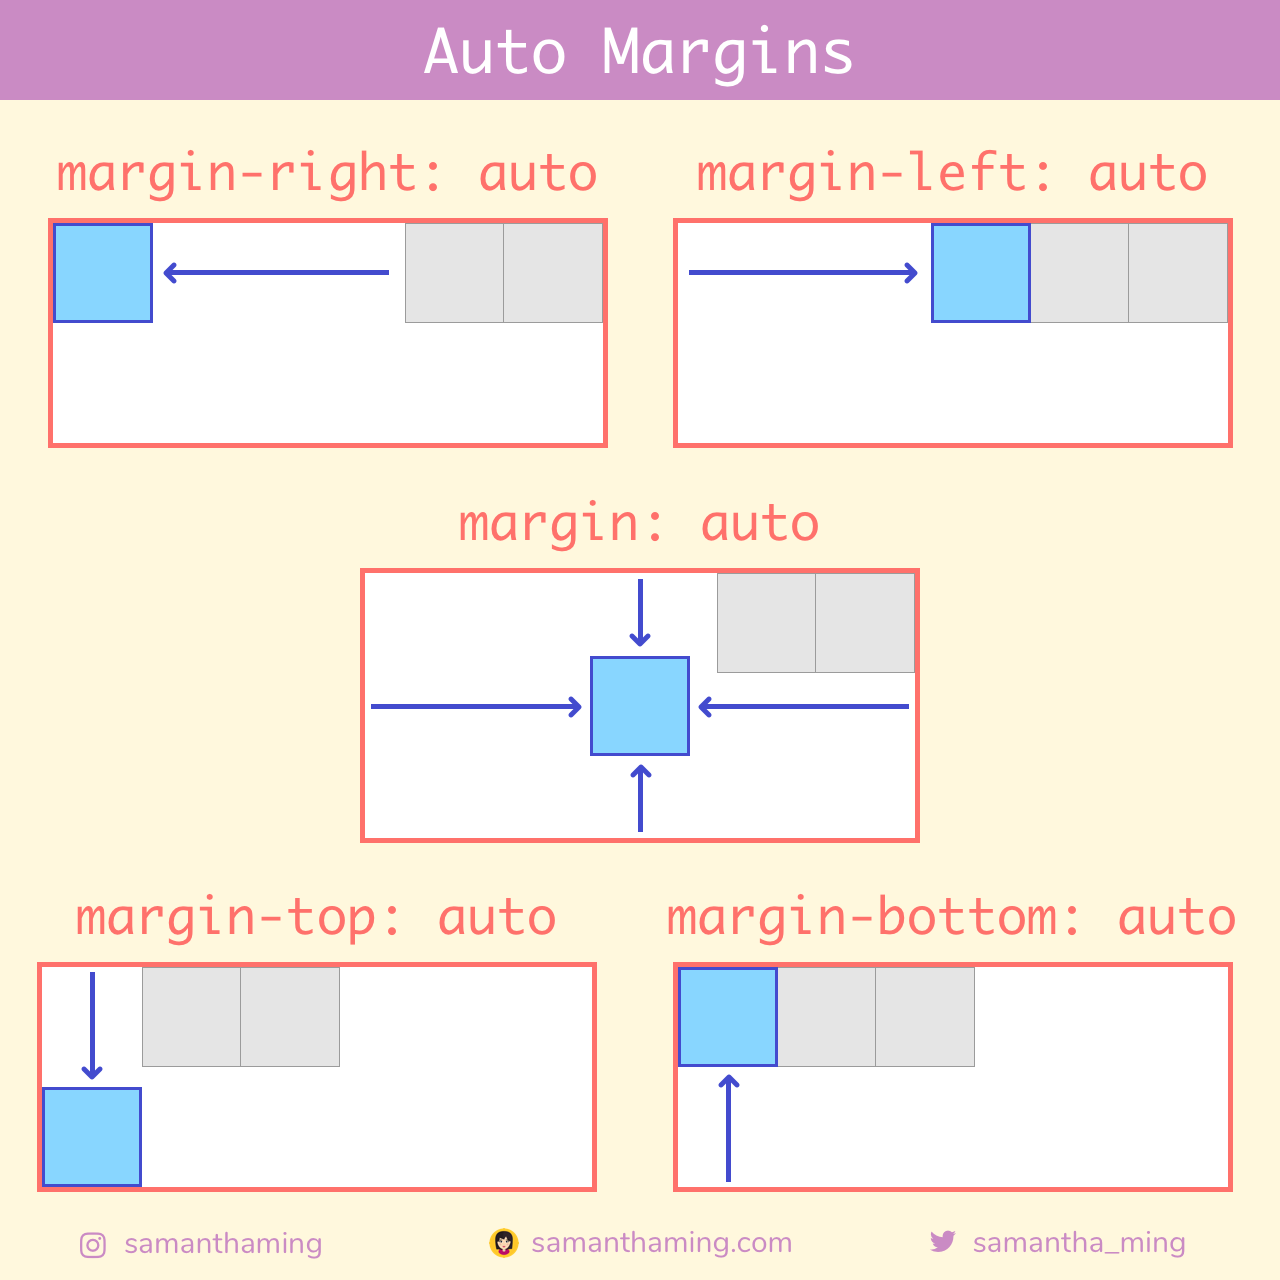
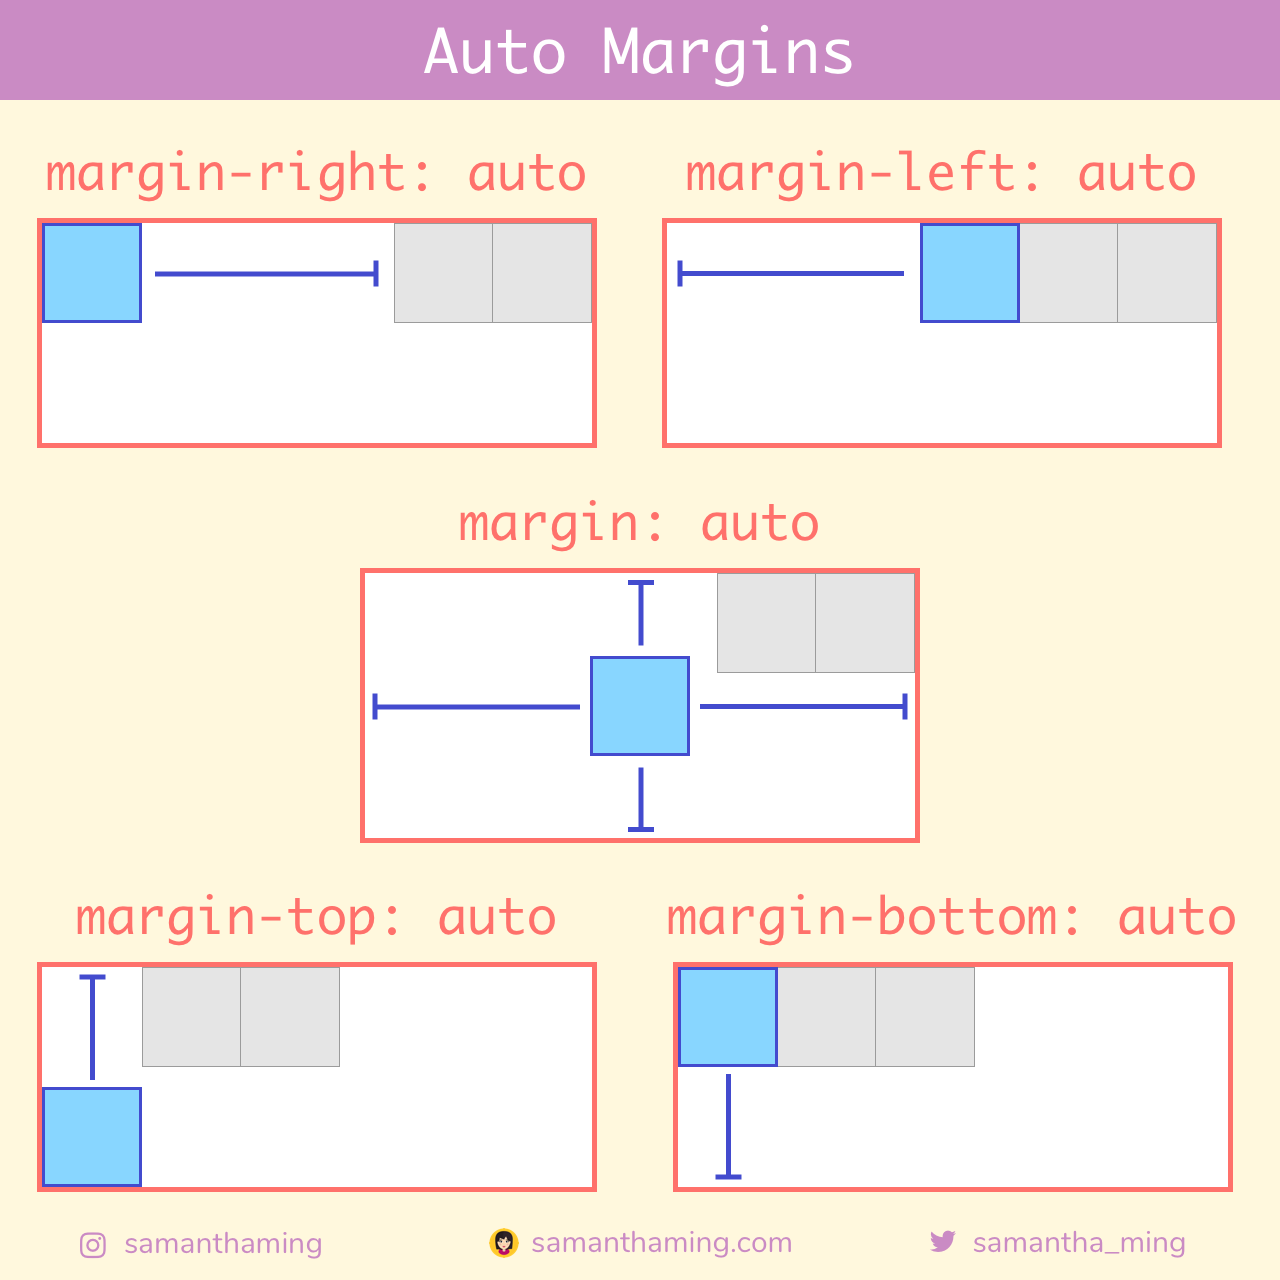
Update 'auto margin' tidbit & add 'understanding margin' section

diff --git a/flexbox-aligning-with-auto-margins/README.md b/flexbox-aligning-with-auto-margins/README.md
@@ -12,6 +12,22 @@ And if you apply all the margins (left, right, top, bottom) with the shorthand `
 
 <p><img src="auto-margins-center.png" alt="Centering with Auto Margins" width="500"></p>
 
+## Understanding Margin
+
+You might be a bit confused at this point. Why does `margin-left:auto` push things to the right or why does `margin-right: auto` push things to the left. It seems counter-intuitive. Don't worry, I was too 😅
+
+Remember the basics of margin. It adds **space** to the element. So with `margin-left:50px`, it adds `50px` worth of space to the left of the element. Which pushes the element to the right. With `margin-left:auto`, the `auto` calculates the entire available space and makes that the amount of space to the left of the element. Which pushes the element all the way to the right.
+
+<p><img src="understanding-margin.png" alt="Understanding Margin" width="500"></p>
+
+| margin          | space                    | appearance                   |
+|-----------------|--------------------------|------------------------------|
+| `margin-left`   | adds space to the left   | pushes element to the right  |
+| `margin-right`  | adds space to the right  | pushes element to the left   |
+| `margin-top`    | adds space to the top    | pushes element to the bottom |
+| `margin-bottom` | adds space to the bottom | pushes element to the top    |
+| `margin`        | adds space all around    | pushes element to the center |
+
 ## Auto Margins Always Wins 🏆
 
 If you use **auto margins**, it will reign supreme and your Flexbox alignment properties will have no effect 💪
